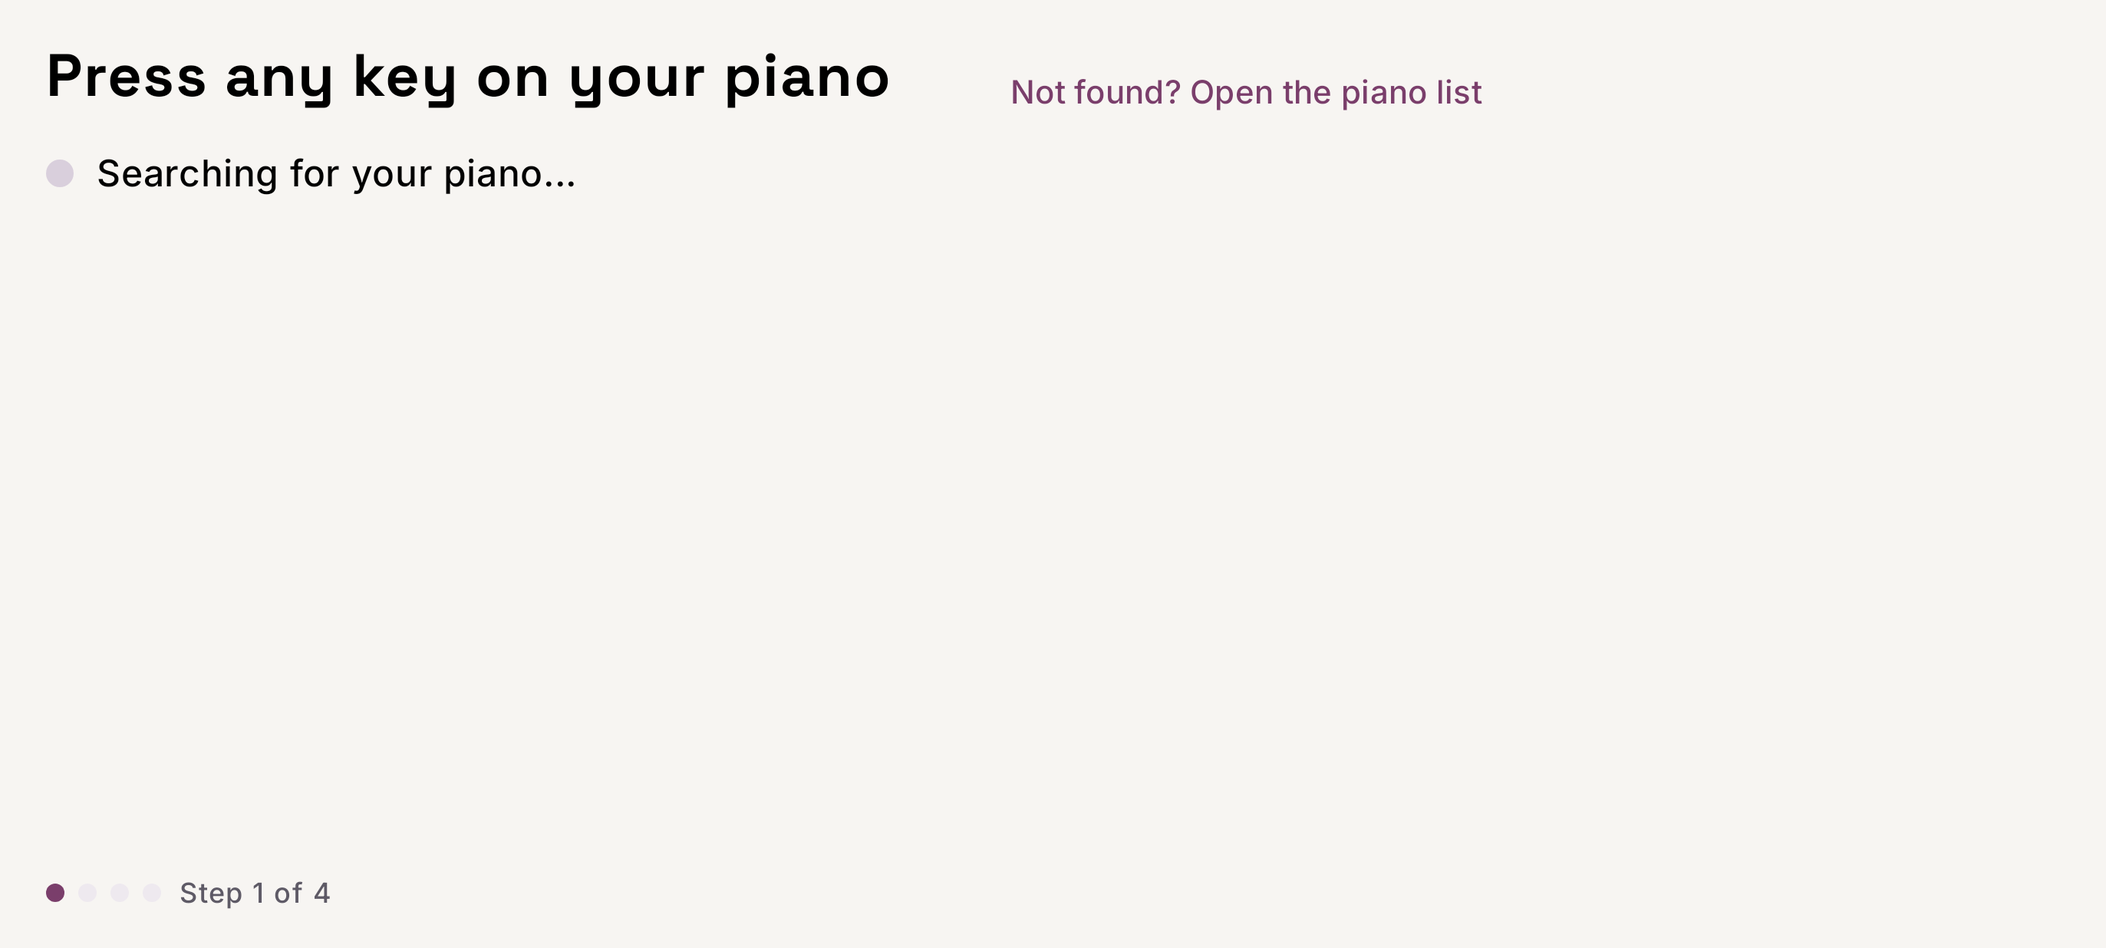
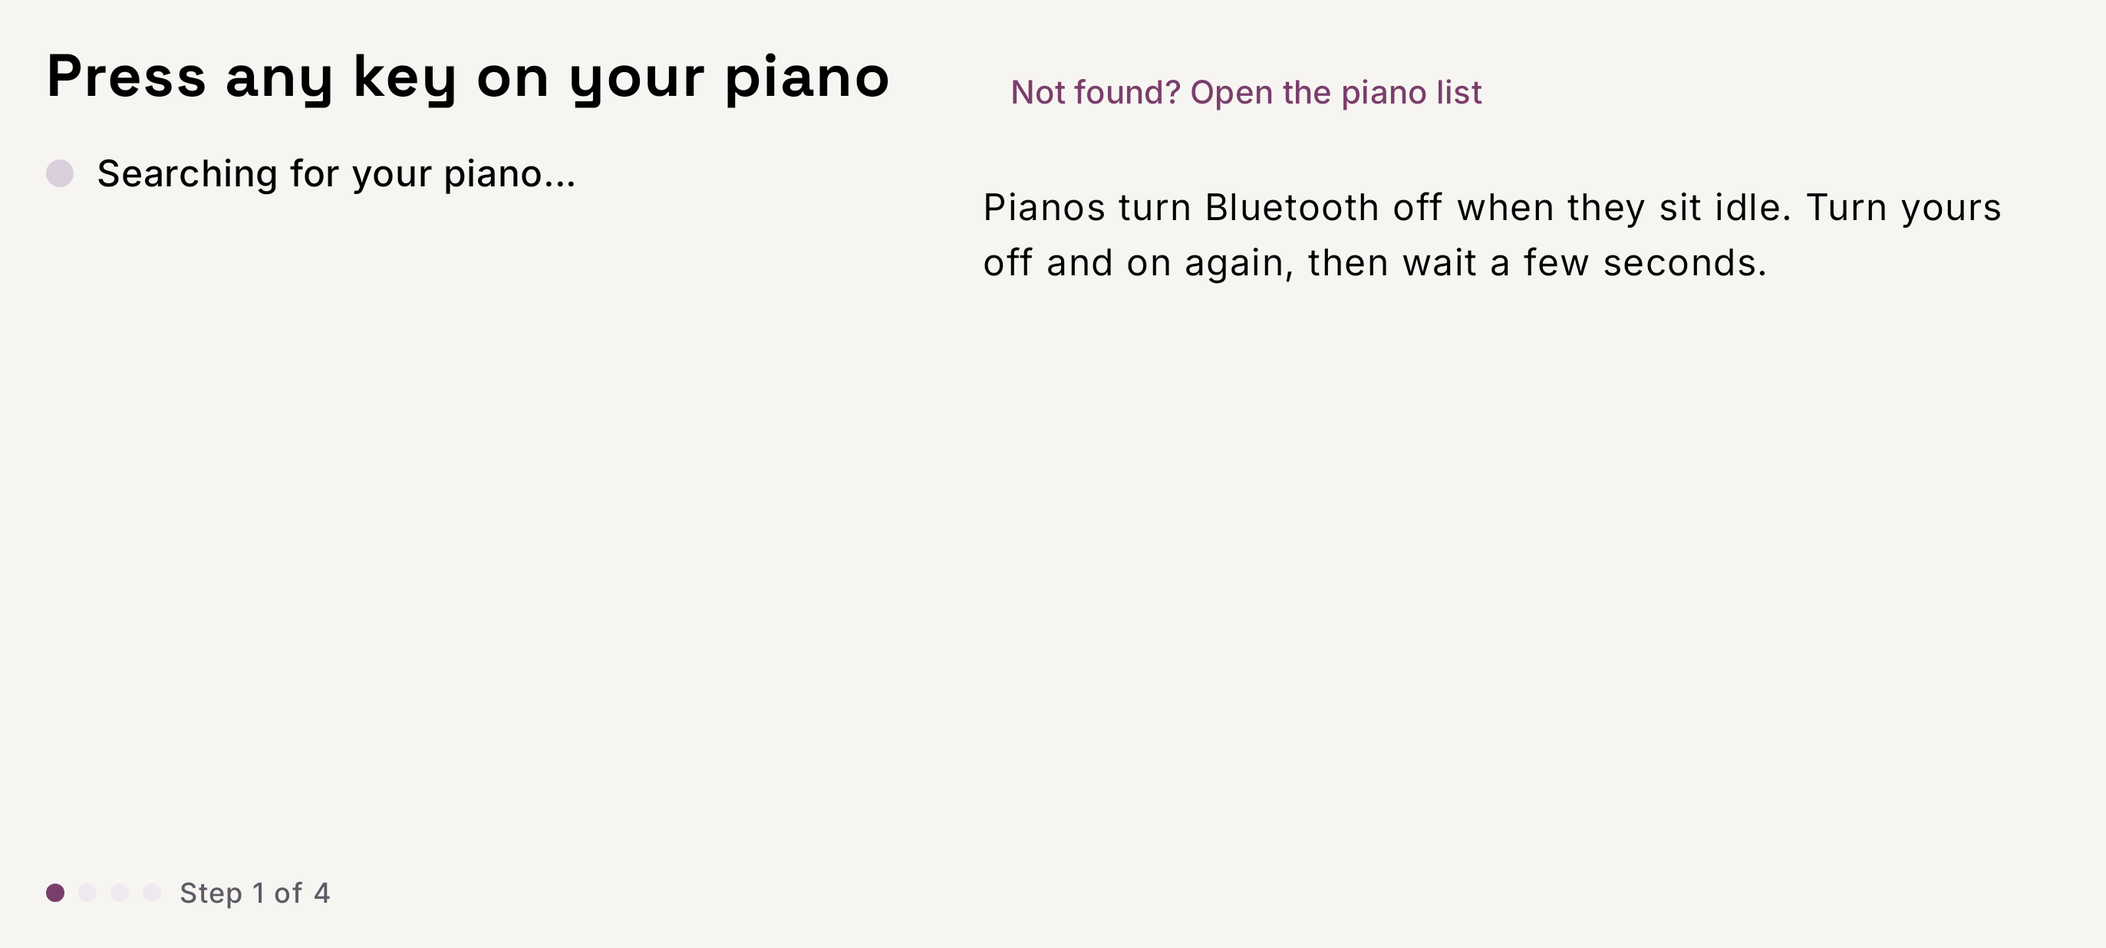
feat(onboarding): connect step says how to continue and why a piano may be missing (#226)
## Summary
Closes #179.

- **Onboarding connect step:**
- "Press any key to continue." shows under the "Connected · …" line
whenever it names a piano (picked or listed), and not while searching.
- Under "Not found? Open the piano list" (`pianoListHint`): "Pianos turn
Bluetooth off when they sit idle. Turn yours off and on again, then wait
a few seconds."
- **Pianos:** a new `MonitorState.sleepHint` shows the same sentence
under "No pianos" (`monitor_sleep_hint`).
  - It's set when a scan runs to its end with nothing scanned or listed.
  - It's cleared when a scan starts or a piano appears.
- A failed scan (Bluetooth off or no permission) doesn't set it, because
its error card already explains why. A cancelled scan doesn't either;
this came out of review.
- **Tests:**
- `MonitorSleepHintTest`: ends with nothing, finds a piano, a scan start
clears it, a listed device clears it, a failed scan.
- `OnboardingScreenTest`: listed, picked and searching cases, plus the
sleep line.
  - `MonitorScreenTest.sleepHintShowsOnlyWhenSet`.
- **Goldens:** `OnboardingScreen_connect_not_found_*` re-recorded; new
`MonitorScreen_sleep_hint_*`. No existing golden shows a connected piano
on the connect step.
- **Docs:** `docs/ui/living-studio.md` (connect step, Pianos). Removed
the item from the roadmap.

**Stacked on #225:** this diff also shows #225's changes until #225
merges.

## Verification
`./gradlew fastCheck :app-android:compileDebugKotlin` → passes
[…]

Changed region(s): [[0.4645, 0.1845, 0.9599, 0.3074]]

diff --git a/feature/monitor/src/commonTest/kotlin/pianoanchor/feature/monitor/MonitorSleepHintTest.kt b/feature/monitor/src/commonTest/kotlin/pianoanchor/feature/monitor/MonitorSleepHintTest.kt
@@ -1,0 +1,131 @@
+package pianoanchor.feature.monitor
+
+import kotlinx.coroutines.Dispatchers
+import kotlinx.coroutines.ExperimentalCoroutinesApi
+import kotlinx.coroutines.test.StandardTestDispatcher
+import kotlinx.coroutines.test.TestScope
+import kotlinx.coroutines.test.advanceTimeBy
+import kotlinx.coroutines.test.resetMain
+import kotlinx.coroutines.test.runCurrent
+import kotlinx.coroutines.test.runTest
+import kotlinx.coroutines.test.setMain
+import pianoanchor.core.model.BluetoothUnavailableException
+import pianoanchor.core.model.MidiDevice
+import pianoanchor.engine.Tunables
+import pianoanchor.testing.FakeClock
+import pianoanchor.testing.FakeInstrumentRepository
+import pianoanchor.testing.FakePiano
+import pianoanchor.testing.FakeSettingsRepository
+import pianoanchor.testing.FakeWallClock
+import kotlin.test.AfterTest
+import kotlin.test.BeforeTest
+import kotlin.test.Test
+import kotlin.test.assertFalse
+import kotlin.test.assertTrue
+import kotlin.time.Instant
+
+/** The "pianos turn Bluetooth off when idle" hint after a scan that finds nothing. */
+@OptIn(ExperimentalCoroutinesApi::class)
+class MonitorSleepHintTest {
+    private val dispatcher = StandardTestDispatcher()
+    private val clock = FakeClock(1_000_000_000)
+    private val piano = FakePiano(clock)
+    private val bluetoothPiano = MidiDevice(id = "ble-piano", name = "BLE Piano")
+
+    @BeforeTest
+    fun setUp() = Dispatchers.setMain(dispatcher)
+
+    @AfterTest
+    fun tearDown() = Dispatchers.resetMain()
+
+    private fun TestScope.monitor(): MonitorViewModel =
+        MonitorViewModel(
+            piano,
+            piano,
+            piano,
+            FakeInstrumentRepository(),
+            FakeSettingsRepository(),
+            clock,
+            FakeWallClock(Instant.parse("2026-11-12T10:00:00Z")),
+            "test",
+        ).also { runCurrent() }
+
+    private suspend fun TestScope.finishScan() = advanceTimeBy(Tunables.BLE_SCAN_TIMEOUT_MS + 1)
+
+    @Test
+    fun aScanThatEndsWithNothingSetsTheHint() =
+        runTest(dispatcher) {
+            piano.unplug()
+            val vm = monitor()
+            vm.scanBluetooth()
+            runCurrent()
+            assertFalse(vm.state.value.sleepHint)
+            finishScan()
+
+            assertTrue(vm.state.value.sleepHint)
+        }
+
+    @Test
+    fun aScanThatFindsAPianoDoesNotSetTheHint() =
+        runTest(dispatcher) {
+            piano.unplug()
+            piano.advertised = listOf(bluetoothPiano)
+            val vm = monitor()
+            vm.scanBluetooth()
+            runCurrent()
+            finishScan()
+
+            assertFalse(vm.state.value.sleepHint)
+        }
+
+    @Test
+    fun aListedPianoMeansNoHint() =
+        runTest(dispatcher) {
+            val vm = monitor()
+            vm.scanBluetooth()
+            runCurrent()
+            finishScan()
+
+            assertFalse(vm.state.value.sleepHint)
+        }
+
+    @Test
+    fun aFailedScanDoesNotSetTheHint() =
+        runTest(dispatcher) {
+            piano.unplug()
+            piano.bluetoothProblem = BluetoothUnavailableException.Reason.BLUETOOTH_OFF
+            val vm = monitor()
+            vm.scanBluetooth()
+            runCurrent()
+
+            assertFalse(vm.state.value.sleepHint)
+        }
+
+    @Test
+    fun startingAScanClearsTheHint() =
+        runTest(dispatcher) {
+            piano.unplug()
+            val vm = monitor()
+            vm.scanBluetooth()
+            runCurrent()
+            finishScan()
+            vm.scanBluetooth()
+            runCurrent()
+
+            assertFalse(vm.state.value.sleepHint)
+        }
+
+    @Test
+    fun aListedDeviceClearsTheHint() =
+        runTest(dispatcher) {
+            piano.unplug()
+            val vm = monitor()
+            vm.scanBluetooth()
+            runCurrent()
+            finishScan()
+            piano.plugIn()
+            runCurrent()
+
+            assertFalse(vm.state.value.sleepHint)
+        }
+}

diff --git a/feature/monitor/src/commonMain/kotlin/pianoanchor/feature/monitor/MonitorViewModel.kt b/feature/monitor/src/commonMain/kotlin/pianoanchor/feature/monitor/MonitorViewModel.kt
@@ -74,7 +74,7 @@ public class MonitorViewModel(
     init {
         viewModelScope.launch {
             input.inputDevices.collect { devices ->
-                mutableState.update { it.copy(devices = devices) }
+                mutableState.update { it.copy(devices = devices, sleepHint = it.sleepHint && devices.isEmpty()) }
             }
         }
         viewModelScope.launch {
@@ -130,6 +130,7 @@ public class MonitorViewModel(
                     it.copy(
                         scanning = true,
                         scanned = emptyList(),
+                        sleepHint = false,
                         error =
                             it.error.takeUnless { e ->
                                 e in
@@ -137,12 +138,22 @@ public class MonitorViewModel(
                             },
                     )
                 }
+                var ranToTheEnd = false
                 try {
                     discovery.scan().collect { found -> mutableState.update { it.copy(scanned = found) } }
+                    ranToTheEnd = true
                 } catch (e: BluetoothUnavailableException) {
                     mutableState.update { it.copy(error = e.toMonitorError()) }
                 } finally {
-                    mutableState.update { it.copy(scanning = false) }
+                    // The hint is for a scan that ran to its end and found nothing: a failed scan has its own error
+                    // card, and a cancelled one (the screen closed) never finished looking.
+                    mutableState.update {
+                        it.copy(
+                            scanning = false,
+                            sleepHint =
+                                ranToTheEnd && it.scanned.isEmpty() && it.devices.isEmpty(),
+                        )
+                    }
                 }
             }
     }

diff --git a/feature/onboarding/src/androidHostTest/kotlin/pianoanchor/feature/onboarding/OnboardingScreenTest.kt b/feature/onboarding/src/androidHostTest/kotlin/pianoanchor/feature/onboarding/OnboardingScreenTest.kt
@@ -49,6 +49,8 @@ class OnboardingScreenTest {
             onNodeWithText("Press any key on your piano").assertExists()
             onNodeWithText("Searching for your piano…").assertExists()
             onNodeWithText("Step 1 of 4").assertExists()
+            onNodeWithText("Press any key to continue.").assertDoesNotExist()
+            onNodeWithText(SLEEP_LINE).assertExists()
             onNodeWithText("Not found? Open the piano list").performClick()
 
             assertEquals(listOf("list"), calls)
@@ -62,6 +64,24 @@ class OnboardingScreenTest {
             onNodeWithText("Press any key on your piano").assertExists()
             onNodeWithText("Connected · FP-30X").assertExists()
             onNodeWithText("Searching for your piano…").assertDoesNotExist()
+            onNodeWithText("Press any key to continue.").assertExists()
+            onNodeWithText(SLEEP_LINE).assertDoesNotExist()
+        }
+
+    @Test
+    fun aPickedPianoSaysAKeyPressContinues() =
+        runComposeUiTest {
+            show(OnboardingState(device = piano))
+
+            onNodeWithText("Press any key to continue.").assertExists()
+        }
+
+    @Test
+    fun searchingDoesNotSayToPressAKeyToContinue() =
+        runComposeUiTest {
+            show(OnboardingState())
+
+            onNodeWithText("Press any key to continue.").assertDoesNotExist()
         }
 
     @Test
@@ -158,3 +178,6 @@ class OnboardingScreenTest {
 private const val LARGE_FONT_SCALE = 2f
 
 private const val SDK = 36
+
+private const val SLEEP_LINE =
+    "Pianos turn Bluetooth off when they sit idle. Turn yours off and on again, then wait a few seconds."

diff --git a/feature/onboarding/src/commonMain/kotlin/pianoanchor/feature/onboarding/OnboardingScreen.kt b/feature/onboarding/src/commonMain/kotlin/pianoanchor/feature/onboarding/OnboardingScreen.kt
@@ -42,8 +42,10 @@ import pianoanchor.core.model.MidiDevice
 import pianoanchor.engine.content.Curriculum
 import pianoanchor.feature.onboarding.resources.Res
 import pianoanchor.feature.onboarding.resources.onboarding_connect_connected
+import pianoanchor.feature.onboarding.resources.onboarding_connect_continue
 import pianoanchor.feature.onboarding.resources.onboarding_connect_not_found
 import pianoanchor.feature.onboarding.resources.onboarding_connect_searching
+import pianoanchor.feature.onboarding.resources.onboarding_connect_sleep
 import pianoanchor.feature.onboarding.resources.onboarding_connect_title
 import pianoanchor.feature.onboarding.resources.onboarding_start_beginning
 import pianoanchor.feature.onboarding.resources.onboarding_start_beginning_summary
@@ -181,7 +183,9 @@ internal fun ConnectionLine(device: MidiDevice?) {
 @Composable
 private fun ConnectLeft(state: OnboardingState) {
     Title(Res.string.onboarding_connect_title)
-    ConnectionLine(state.device ?: state.listed)
+    val piano = state.device ?: state.listed
+    ConnectionLine(piano)
+    if (piano != null) Text(stringResource(Res.string.onboarding_connect_continue))
 }
 
 @Composable
@@ -193,6 +197,7 @@ private fun ConnectRight(
         TextButton(onClick = actions.onOpenPianoList, modifier = Modifier.heightIn(min = TouchTarget)) {
             Text(stringResource(Res.string.onboarding_connect_not_found))
         }
+        Text(stringResource(Res.string.onboarding_connect_sleep))
     }
 }
 

diff --git a/feature/monitor/src/commonMain/kotlin/pianoanchor/feature/monitor/MonitorScreen.kt b/feature/monitor/src/commonMain/kotlin/pianoanchor/feature/monitor/MonitorScreen.kt
@@ -66,6 +66,7 @@ import pianoanchor.feature.monitor.resources.monitor_scan
 import pianoanchor.feature.monitor.resources.monitor_scanned
 import pianoanchor.feature.monitor.resources.monitor_scanning
 import pianoanchor.feature.monitor.resources.monitor_select_device
+import pianoanchor.feature.monitor.resources.monitor_sleep_hint
 import pianoanchor.feature.monitor.resources.monitor_status_connected
 import pianoanchor.feature.monitor.resources.monitor_status_none
 import pianoanchor.feature.monitor.resources.monitor_status_reconnecting
@@ -120,6 +121,7 @@ private fun LazyListScope.devices(
 ) {
     item { SectionTitle(Res.string.monitor_devices) }
     if (state.devices.isEmpty()) item { Text(stringResource(Res.string.monitor_no_devices)) }
+    if (state.sleepHint) item { Text(stringResource(Res.string.monitor_sleep_hint)) }
     items(state.devices, key = { "listed-${it.id}" }) { device ->
         DeviceRow(
             device,

diff --git a/feature/monitor/src/androidHostTest/kotlin/pianoanchor/feature/monitor/MonitorScreenTest.kt b/feature/monitor/src/androidHostTest/kotlin/pianoanchor/feature/monitor/MonitorScreenTest.kt
@@ -47,6 +47,22 @@ class MonitorScreenTest {
         }
 
     @Test
+    fun sleepHintShowsOnlyWhenSet() =
+        runComposeUiTest {
+            var state by mutableStateOf(MonitorState())
+            setContent { PianoAnchorTheme { MonitorScreen(state, MonitorActions()) } }
+            val hint =
+                "Pianos turn Bluetooth off when they sit idle. " +
+                    "Turn yours off and on again, then wait a few seconds."
+
+            onNodeWithText(hint).assertDoesNotExist()
+            state = MonitorState(sleepHint = true)
+
+            onNodeWithText("No piano found", substring = true).assertExists()
+            onNodeWithText(hint).assertExists()
+        }
+
+    @Test
     fun nullCallbacksHideTheButtons() =
         runComposeUiTest {
             setContent {

diff --git a/feature/monitor/src/commonMain/kotlin/pianoanchor/feature/monitor/MonitorState.kt b/feature/monitor/src/commonMain/kotlin/pianoanchor/feature/monitor/MonitorState.kt
@@ -22,6 +22,11 @@ public data class MonitorState(
     val error: MonitorError? = null,
     val instrument: Instrument? = null,
     val lastPiano: MidiDevice? = null,
+    /**
+     * True after a Bluetooth scan ended with no new piano while no piano is listed; cleared when a scan starts or a
+     * piano appears.
+     */
+    val sleepHint: Boolean = false,
 )
 
 /** The link to the selected device. */

diff --git a/feature/monitor/src/androidHostTest/kotlin/pianoanchor/feature/monitor/MonitorScreenScreenshotTest.kt b/feature/monitor/src/androidHostTest/kotlin/pianoanchor/feature/monitor/MonitorScreenScreenshotTest.kt
@@ -50,6 +50,9 @@ class MonitorScreenScreenshotTest {
     fun empty() = capture("empty", MonitorState())
 
     @Test
+    fun sleepHint() = capture("sleep_hint", MonitorState(sleepHint = true))
+
+    @Test
     fun scanning() = capture("scanning", MonitorState(devices = listOf(usbPiano), scanning = true))
 
     @Test

diff --git a/docs/ROADMAP.md b/docs/ROADMAP.md
@@ -43,36 +43,31 @@ Checks that need a phone and a piano are under "Owner device checks", not here.
 1. **Automatic link latency** (spec #172; owner's hardware check; ADR 0025): timed runs measure the piano's link delay
     with Identity Request round trips; calibration leaves the onboarding and the first-run card; tap calibration becomes
     the optional "Fine-tune timing" with a 45 ms spread limit.
-2. **Connect step says what to do and why a piano may be missing** (spec #179; owner's hardware check): the step has no
-    button, and the owner looked for one; say under the connected line that a key press continues (e.g. "Press any
-    key to continue"). A piano left idle turns its Bluetooth off (the owner's went quiet after about 15 minutes and
-    only a power cycle brought it back), so the "Not found?" hint, and the Pianos screen when a scan finds nothing,
-    should say a piano may have gone to sleep: turn it off and on again.
-3. **Beginner course: the new map** (spec #181): rebuild Units 0–3 to the course map (23 concepts), moving,
+2. **Beginner course: the new map** (spec #181): rebuild Units 0–3 to the course map (23 concepts), moving,
     keeping or dropping each existing passage; skill prerequisites suggest the next lesson but lock nothing.
-4. **Beginner course: concept cards** (spec #182; design in `docs/course/beginner-course.md`, ADR 0026) [#181]: a typed
+3. **Beginner course: concept cards** (spec #182; design in `docs/course/beginner-course.md`, ADR 0026) [#181]: a typed
     concept card (what, why, how, when) per concept in the curriculum, a content test that fails on an empty field,
     and the cards for all 23 concepts of the map.
-5. **Beginner course: Try checks** (spec #188) [#181]: one small piano-checked task per course concept and a pure
+4. **Beginner course: Try checks** (spec #188) [#181]: one small piano-checked task per course concept and a pure
     evaluator, for the lesson's Try step and the review quizzes.
-6. **Beginner course: five-step lesson screen** (spec #189) [#188]: Why → See → Try → Use → Recap in the landscape
+5. **Beginner course: five-step lesson screen** (spec #189) [#188]: Why → See → Try → Use → Recap in the landscape
     layout, resuming at the last step; Today's "Next" card and the course map ticks.
-7. **Beginner course: card animations, Unit 0** (spec #191) [#189]: the shared scene model and renderer that keep
+6. **Beginner course: card animations, Unit 0** (spec #191) [#189]: the shared scene model and renderer that keep
     every card's animation consistent, and the Unit 0 scenes.
-8. **Beginner course: card animations, Unit 1** (spec #192) [#191]: the Unit 1 scenes.
-9. **Beginner course: card animations, Unit 2** (spec #193) [#191]: the Unit 2 scenes.
-10. **Beginner course: card animations, Unit 3** (spec #194) [#191]: the Unit 3 scenes.
-11. **Beginner course: review quizzes** (spec #195) [#189]: 10–20 s piano-checked quizzes of due concepts, up to 3 in
+7. **Beginner course: card animations, Unit 1** (spec #192) [#191]: the Unit 1 scenes.
+8. **Beginner course: card animations, Unit 2** (spec #193) [#191]: the Unit 2 scenes.
+9. **Beginner course: card animations, Unit 3** (spec #194) [#191]: the Unit 3 scenes.
+10. **Beginner course: review quizzes** (spec #195) [#189]: 10–20 s piano-checked quizzes of due concepts, up to 3 in
     Today's warm-up, rated by mistakes into the review planner.
-12. **One Today start action** (follow-up of the M4 cleanup; mechanical): the Ear card has its own `target` overload and
+11. **One Today start action** (follow-up of the M4 cleanup; mechanical): the Ear card has its own `target` overload and
     `onStartEar` action, so `MainActivity` repeats the `when (TodayTarget)` with branches that can't happen; give
     `TodayViewModel` one `target(card)` and `TodayActions` one `onStart(card)`.
-13. **Spot attempts under the piece's id** (follow-up of the M5 cleanup; needs an owner decision on run numbering): spot
+12. **Spot attempts under the piece's id** (follow-up of the M5 cleanup; needs an owner decision on run numbering): spot
     loops save their attempts under the slice's id (`…#bars5-6`) and also set `Attempt.spot`, so the full-passage
     queries' spot filters never match a row, the loop's done-rung refresh always reads an empty set and `run N` counts
     loops apart from the piece. Save them under the piece's id and rely on `spot` alone (then drop the id suffix and
     `sourcePassageId`); this changes stored data and run numbers.
-14. **One hint level for the run** (follow-up of the M5 cleanup; mechanical): `PracticeViewModel` still checks perform
+13. **One hint level for the run** (follow-up of the M5 cleanup; mechanical): `PracticeViewModel` still checks perform
     mode by hand where it starts hints; give the run an effective level (OFF in perform) so `loadHints` and
     `startHintStep` read only that, and keep the Hint button's own guard.
 

diff --git a/docs/ui/living-studio.md b/docs/ui/living-studio.md
@@ -217,8 +217,10 @@ that is the connection line and buttons, the "Not found?" hint or the start-poin
 1. **Press any key on your piano**: the line "Searching for your piano…" becomes "Connected · FP-30X" (polite live
    region) as soon as a piano is listed (a Bluetooth piano once the scan has connected it), and the first note on any
    listed input picks that piano. A listed piano that drops keeps the line for 5 s, since a Bluetooth link often
-   comes back by itself. After 30 s without a note, the button "Not found? Open the piano list" opens Pianos,
-   with the Bluetooth pianos the search connected still connected; the back button or gesture returns here.
+   comes back by itself. While the line names a piano, plain text under it says "Press any key to continue." (the
+   first note moves on; there is no Continue button). After 30 s without a note, the button "Not found? Open the piano list" opens Pianos,
+   with the Bluetooth pianos the search connected still connected; the back button or gesture returns here. Under that
+   button a line explains that pianos turn Bluetooth off when idle and need switching off and on again.
 2. **Hear it, then play it back**: a card with five keys (C to G, C, E and G in the primary container colour). The piano
    plays C4, E4, G4 (500 ms apart, velocity 80), the card says "Play C, E, G" and any octave counts. A piano with no MIDI
    output skips the playing; the keys are then read as "C, play this key". A match says "You just played your first chord
@@ -262,7 +264,9 @@ per piece in content order. Cards are at least 56 dp high; the grid scrolls and 
 Landscape: a header across the top (back arrow when it was opened from another screen, and the title; the settings gear
 lives on Today), then two panes. The left pane (about 45%) holds the error card, the devices list, the Scan button,
 the scanned pianos, the connection status, the practice, calibrate and record buttons and the contribution kit; the
-right pane (the rest) is the note log. Each pane scrolls on its own.
+right pane (the rest) is the note log. Each pane scrolls on its own. When a Bluetooth scan ends with no piano found
+and none listed, a line under "No piano found" says pianos turn Bluetooth off when idle and need switching off and on
+again; it goes when a scan starts or a piano is listed.
 
 The piano connected last through onboarding or Pianos is remembered. Its row on Pianos (when it is listed) has a
 "Forget" text button (TalkBack: "Forget FP-30X"): it disconnects the piano and stops Today reconnecting it.
